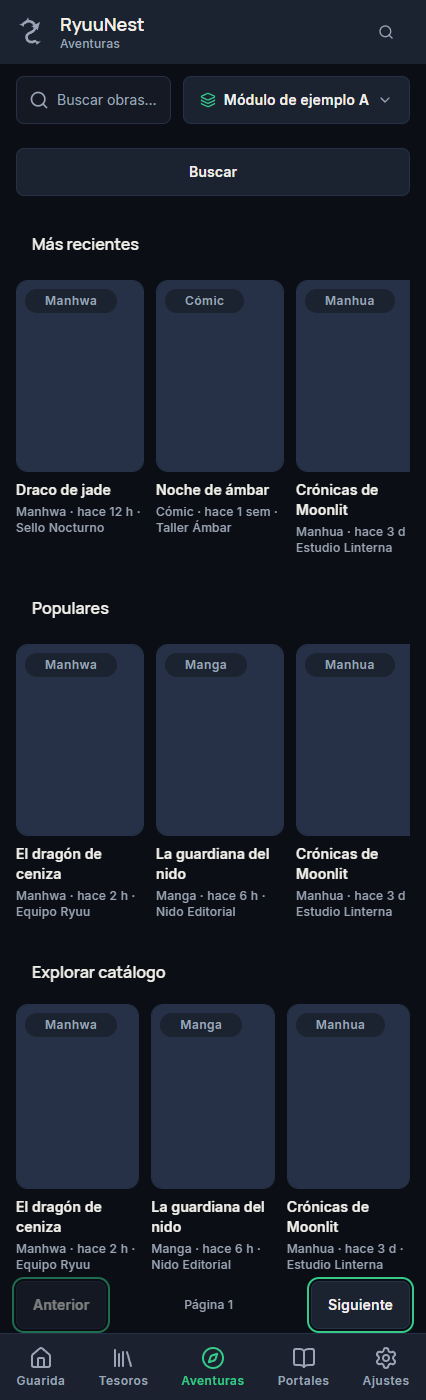
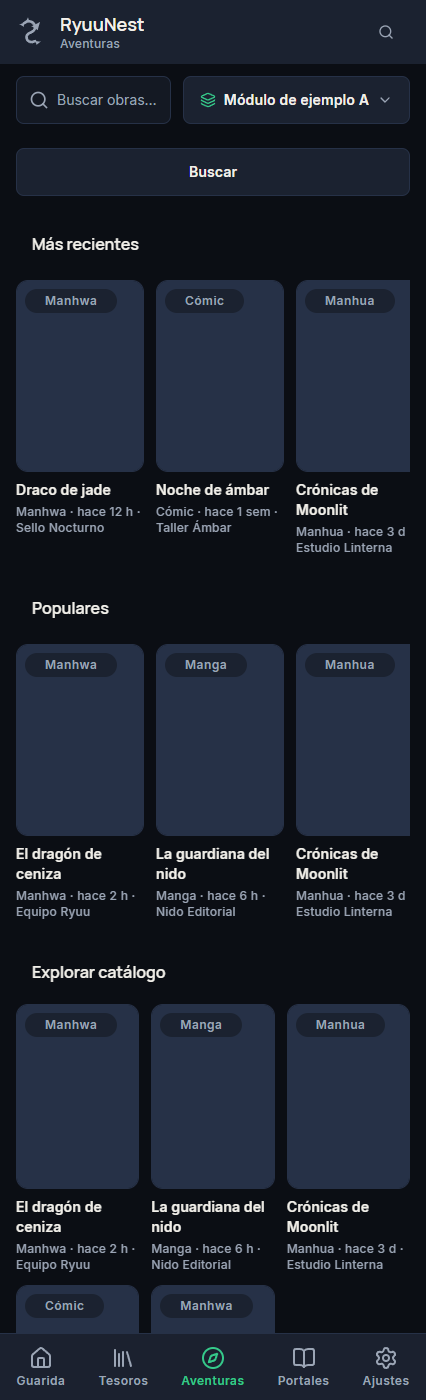
fix: F84 pie de lista siempre visible y carga si la lista no llena la pantalla

Changed region(s): [[0.0305, 0.8907, 0.6714, 0.9521], [0.7019, 0.8907, 0.9765, 0.9521]]

diff --git a/apps/mobile/src/screens/discover/DiscoverScreen.tsx b/apps/mobile/src/screens/discover/DiscoverScreen.tsx
@@ -1,5 +1,12 @@
 import { useEffect, useState } from "react";
-import { ActivityIndicator, ScrollView, StyleSheet, Text, View, useWindowDimensions } from "react-native";
+import {
+  ActivityIndicator,
+  ScrollView,
+  StyleSheet,
+  Text,
+  View,
+  useWindowDimensions,
+} from "react-native";
 import {
   dragonNightColors,
   layoutForWidth,
@@ -222,6 +229,7 @@ function DiscoverReady({
 }: DiscoverReadyProps) {
   // Borrador del campo: se entrega con Entrar (RF-10); al cambiar de módulo o
   // limpiarse desde fuera, el campo sigue a la consulta activa.
+  const { height: windowHeight } = useWindowDimensions();
   const [draft, setDraft] = useState(ready.query);
   useEffect(() => setDraft(ready.query), [ready.query]);
 
@@ -273,6 +281,10 @@ function DiscoverReady({
           gap: spacing.lg,
         }}
         scrollEventThrottle={100}
+        onContentSizeChange={(_width, contentHeight) => {
+          // Si la lista no llena la pantalla no habrá scroll: se sigue pidiendo hasta llenarla o agotarla.
+          if (contentHeight < windowHeight && catalog.hasNext && more === "idle") onLoadMore?.();
+        }}
         onScroll={(event) => {
           // F84: al acercarse al final se pide la página siguiente (con el fallo, solo con «Reintentar»).
           const { layoutMeasurement, contentOffset, contentSize } = event.nativeEvent;
@@ -423,7 +435,7 @@ function DiscoverReady({
             </View>
           )}
 
-          {(selectedModule?.paginates ?? true) && catalog.entries.length > 0 ? (
+          {catalog.entries.length > 0 ? (
             <CatalogFooter hasNext={catalog.hasNext} more={more} onRetry={onLoadMore} />
           ) : null}
         </View>

diff --git a/tasks/todo.md b/tasks/todo.md
@@ -317,7 +317,7 @@ Dep: F83 · M · `apps/mobile/src/screens/discover/*`
 
 - [x] Resultados del buscador del sitio; al acercarse al final se pide la página siguiente, hasta agotar (sin duplicados ni peticiones repetidas: `catalogPaging.ts`, `catalogOnly` en la carga)
 - [x] Estados: cargando más, error con reintento, fin de lista; sin animaciones (el pie de páginas de móvil desaparece; web conserva el suyo hasta F41)
-- Verif: ✅ Vitest (paginación) · 🧍 S25 (agent-device) pendiente · Playwright 426/1440 px pendiente (tras el móvil)
+- Verif: ✅ Vitest (paginación) · ✅ S25 (agent-device, M440 con «one»: carga páginas y sale «Has llegado al final») · ✅ Playwright 426/1440 px (`discover.cjs`)
 
 ### F85 «Más reciente» y «Popular» con scroll infinito en vez de carrusel `[FE · Intermedia · N3]`
 
